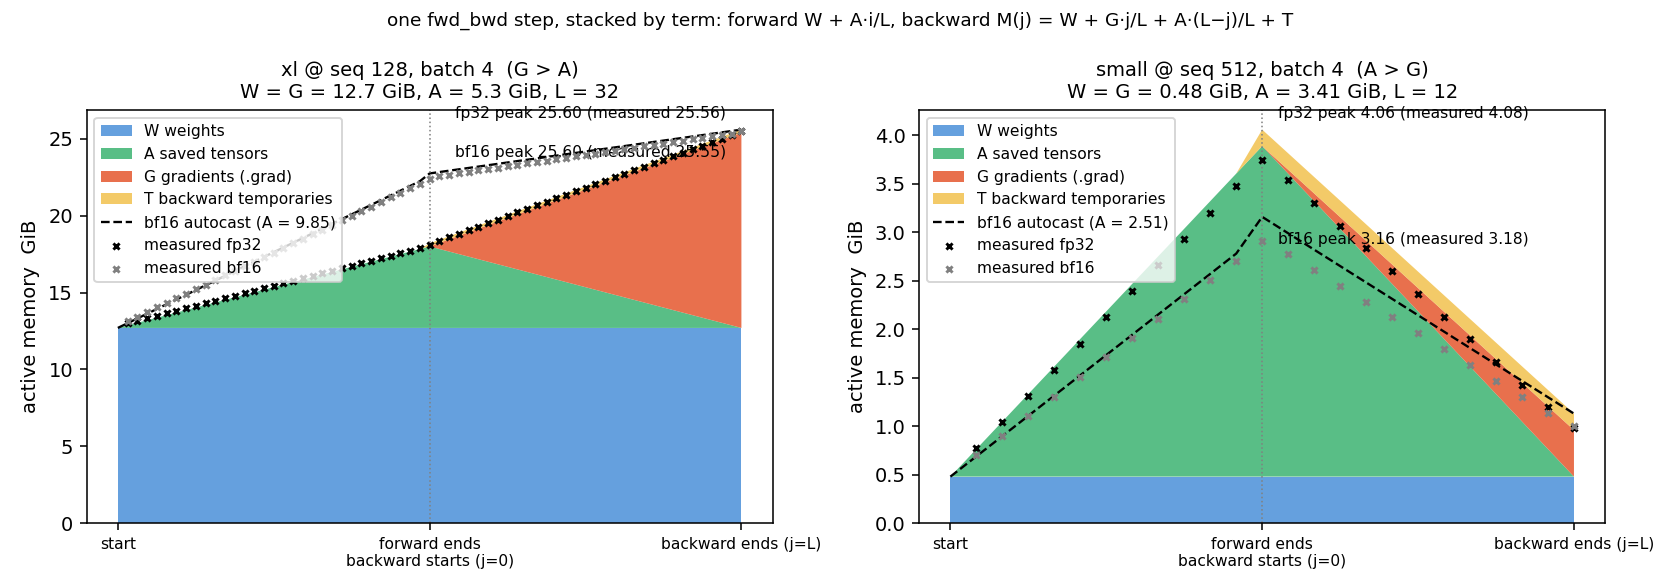
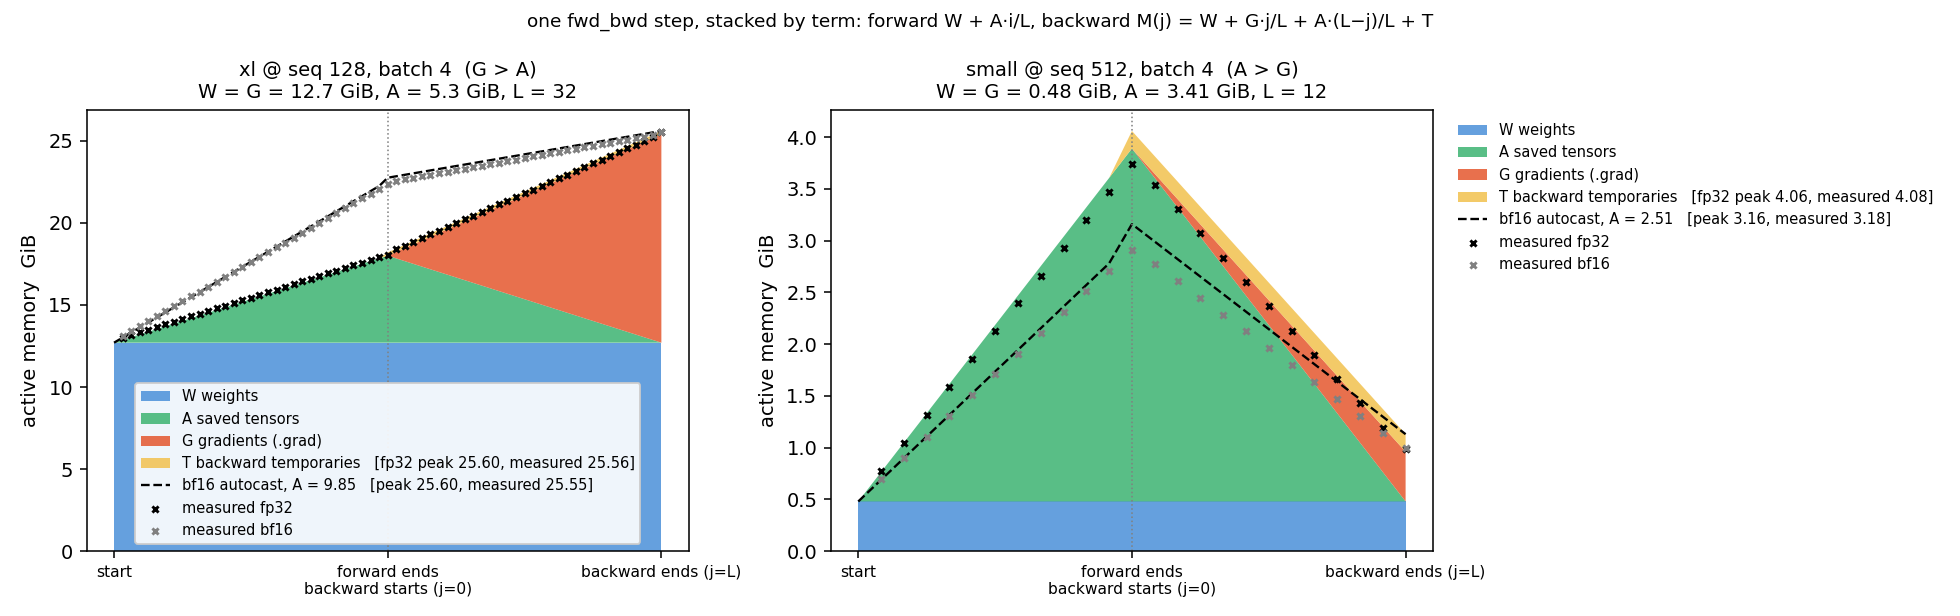
docs(blog): 图 2.2-1 峰值数值并入图例，去掉标注

diff --git a/hw2/notes/assets/s2/plot_peak_moment.py b/hw2/notes/assets/s2/plot_peak_moment.py
@@ -11,7 +11,7 @@ cases = [  # name, L, W, G, A_fp32, A_bf16(含副本), T, 实测峰值 fp32/bf16
     ("xl @ seq 128, batch 4  (G > A)",    32, 12.7, 12.7, 5.3,  3.5 + 6.35, 0.2,  25.56, 25.55),
     ("small @ seq 512, batch 4  (A > G)", 12, 0.48, 0.48, 3.41, 2.28 + 0.23, 0.17, 4.08, 3.18),
 ]
-fig, axes = plt.subplots(1, 2, figsize=(12, 4.2))
+fig, axes = plt.subplots(1, 2, figsize=(14, 4.4))
 for ax, (name, L, W, G, A, A16, T, p32, p16) in zip(axes, cases):
     xs = list(range(2 * L + 1))
     # 四项随 x 的值：前向 i=0..L，反向 j=1..L
@@ -19,14 +19,12 @@ for ax, (name, L, W, G, A, A16, T, p32, p16) in zip(axes, cases):
     a = [A * i / L for i in range(L + 1)] + [A * (L - j) / L for j in range(1, L + 1)]
     g = [0] * (L + 1) + [G * j / L for j in range(1, L + 1)]
     t = [0] * L + [T] * (L + 1)
-    ax.stackplot(xs, w, a, g, t, colors=[C["W"], C["A"], C["G"], C["T"]], labels=["W weights", "A saved tensors", "G gradients (.grad)", "T backward temporaries"], alpha=.85)
     tot = [w[i] + a[i] + g[i] + t[i] for i in xs]
-    kp = max(xs, key=lambda x: tot[x])
-    ax.annotate(f"fp32 peak {tot[kp]:.2f} (measured {p32})", (kp, tot[kp]), textcoords="offset points",
-                xytext=(-8, 6) if kp > L else (8, 6), ha="right" if kp > L else "left", fontsize=8)
+    ax.stackplot(xs, w, a, g, t, colors=[C["W"], C["A"], C["G"], C["T"]],
+                 labels=["W weights", "A saved tensors", "G gradients (.grad)", f"T backward temporaries   [fp32 peak {max(tot):.2f}, measured {p32}]"], alpha=.85)
     # bf16 autocast：A 换成 A16（含副本），其余不变
     m16 = [W + A16 * i / L for i in range(L)] + [W + A16 + T] + [W + G * j / L + A16 * (L - j) / L + T for j in range(1, L + 1)]
-    ax.plot(xs, m16, c="k", ls="--", lw=1.2, label=f"bf16 autocast (A = {A16:.2f})")
+    ax.plot(xs, m16, c="k", ls="--", lw=1.2, label=f"bf16 autocast, A = {A16:.2f}   [peak {max(m16):.2f}, measured {p16}]")
     # 实测点：每层前向结束 / 反向结束时的 memory_allocated()（measure_peak_moment.py，hook 采样）
     size = name.split()[0]
     for ac, c, lab in [(False, "k", "measured fp32"), (True, "gray", "measured bf16")]:
@@ -34,13 +32,10 @@ for ax, (name, L, W, G, A, A16, T, p32, p16) in zip(axes, cases):
         if r:
             pts = r["fwd"] + r["bwd"]
             ax.scatter(range(1, len(pts) + 1), pts, s=10, c=c, marker="x", zorder=5, label=lab)
-    kp16 = max(xs, key=lambda x: m16[x])
-    ax.annotate(f"bf16 peak {m16[kp16]:.2f} (measured {p16})", (kp16, m16[kp16]), textcoords="offset points",
-                xytext=(-8, -14) if kp16 > L else (8, -14), ha="right" if kp16 > L else "left", fontsize=8)
     ax.axvline(L, c="gray", lw=.8, ls=":")
     ax.set_title(f"{name}\nW = G = {W} GiB, A = {A} GiB, L = {L}", fontsize=10)
     ax.set_xticks([0, L, 2 * L]); ax.set_xticklabels(["start", "forward ends\nbackward starts (j=0)", "backward ends (j=L)"], fontsize=8)
-    ax.set_ylabel("active memory  GiB"); ax.legend(fontsize=8, loc="upper left")
+    ax.set_ylabel("active memory  GiB"); ax.legend(fontsize=7.5, loc="lower center", framealpha=.9) if G > A else ax.legend(fontsize=7.5, loc="upper left", bbox_to_anchor=(1.02, 1), frameon=False)
 fig.suptitle("one fwd_bwd step, stacked by term: forward W + A·i/L, backward M(j) = W + G·j/L + A·(L−j)/L + T", fontsize=9.5)
 fig.tight_layout()
 fig.savefig("notes/assets/s2/peak_moment.png", dpi=140)
